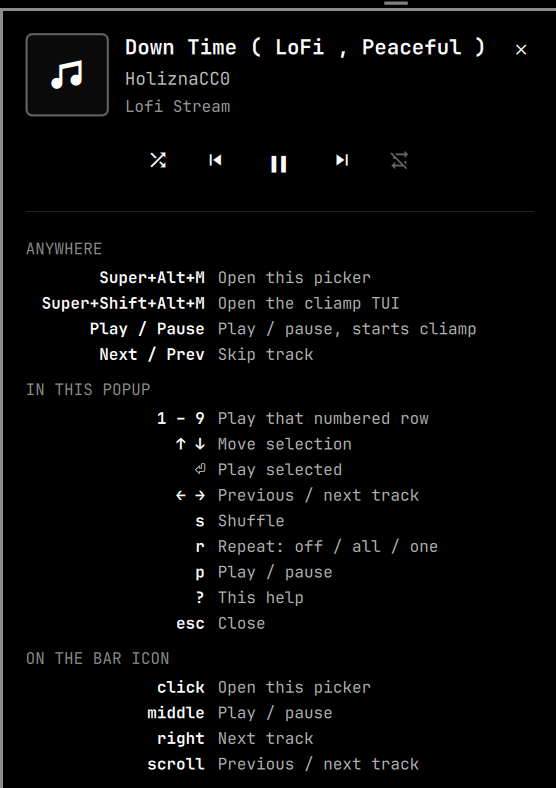
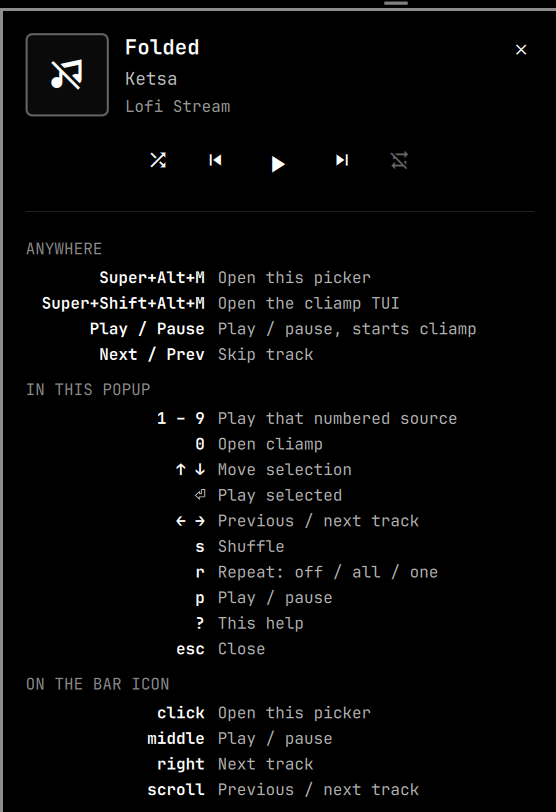
Give "Open cliamp" a fixed key of 0
It is a fixed action rather than a source, so numbering it in sequence meant
its key moved every time a favourite was added or a playlist appeared. Pin it
to 0 and leave 1-9 for sources alone, so the digit for opening cliamp is
worth committing to memory.

Claude-Session: https://claude.ai/code/session_01V3iNZsYzmMVXkhA1piU1my

diff --git a/Widget.qml b/Widget.qml
@@ -37,7 +37,8 @@ BarWidget {
   ]
 
   readonly property var keyHelp: [
-    { keys: "1 – 9", action: "Play that numbered row" },
+    { keys: "1 – 9", action: "Play that numbered source" },
+    { keys: "0", action: "Open cliamp" },
     { keys: "↑ ↓", action: "Move selection" },
     { keys: "⏎", action: "Play selected" },
     { keys: "← →", action: "Previous / next track" },
@@ -102,13 +103,22 @@ BarWidget {
     cursorIndex = (cursorIndex + delta + itemCount) % itemCount
   }
 
+  // Sources are numbered 1-9 in the order they appear. "Open cliamp" is a
+  // fixed action rather than a source, so it keeps a fixed key of its own and
+  // does not shift as favourites and playlists come and go.
   function shortcutFor(index) {
+    if (index === windowIndex)
+      return "0"
     return index < 9 ? String(index + 1) : ""
   }
 
   function activateShortcut(digit) {
+    if (digit === "0") {
+      activateIndex(windowIndex)
+      return
+    }
     var index = parseInt(digit, 10) - 1
-    if (index >= 0 && index < itemCount)
+    if (index >= 0 && index < windowIndex)
       activateIndex(index)
   }
 
@@ -206,7 +216,7 @@ BarWidget {
         else root.close()
       }
       onTextKey: function(t) {
-        if (t >= "1" && t <= "9") root.activateShortcut(t)
+        if (t >= "0" && t <= "9") root.activateShortcut(t)
         else if (t === "?") root.showHelp = !root.showHelp
         else if (t === "s") root.service && root.service.toggleShuffle()
         else if (t === "r") root.service && root.service.cycleRepeat()

diff --git a/README.md b/README.md
@@ -47,7 +47,8 @@ chosen without touching the mouse.
 
 | Key | Action |
 |---|---|
-| `1` – `9` | Play that numbered row directly |
+| `1` – `9` | Play that numbered source directly |
+| `0` | Open cliamp |
 | `↑` `↓` (or `k` `j`) | Move the cursor. The first press reveals it without moving |
 | `Enter` / `Space` | Play the selected source |
 | `←` `→` | Previous / next track |
@@ -57,10 +58,12 @@ chosen without touching the mouse.
 | `?` | Show every shortcut, including the global ones |
 | `Esc` | Close the shortcut list, or the popup |
 
-Every row in the picker carries its number on the right, so `1` plays the
-first favourite, `2` the next row down, and so on. The numbering runs
-continuously through favourites, playlists and the "open cliamp" row, which
-means the digit shown beside a row is always the digit that plays it.
+Every row in the picker carries its key on the right, so `1` plays the first
+favourite, `2` the next row down, and so on through favourites and playlists.
+
+"Open cliamp" is always `0`. It is a fixed action rather than a source, so it
+keeps a key of its own instead of shifting every time a favourite is added or
+a playlist appears.
 
 Two highlights mean different things and can appear at once: a **filled** row
 is the source you are listening to, an **outlined** row is where the keyboard
